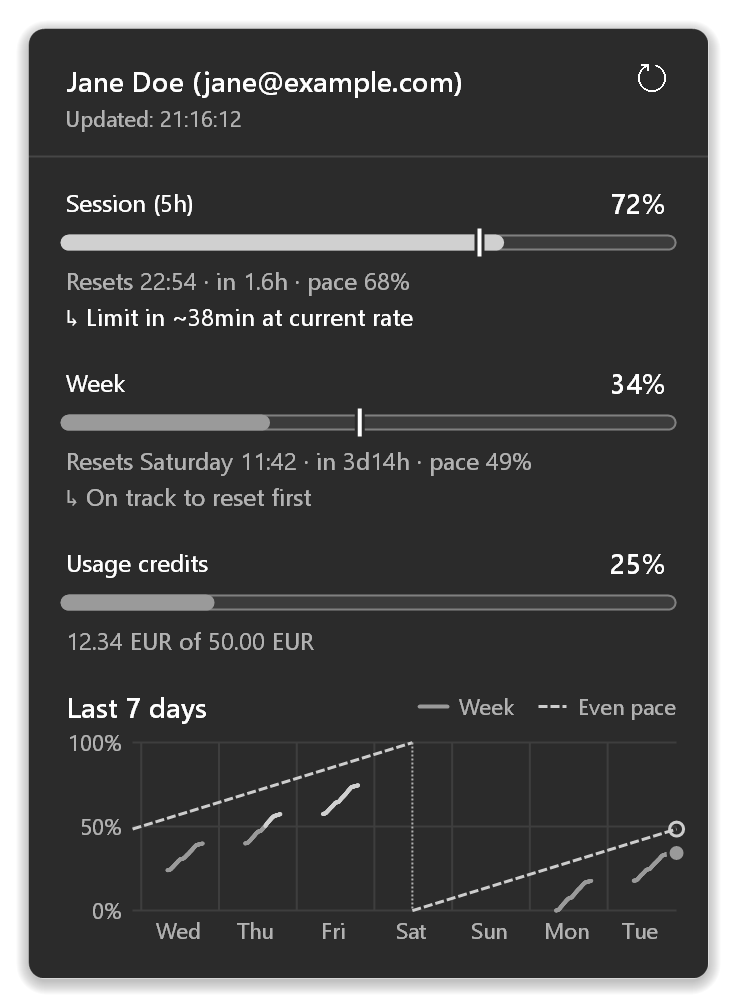
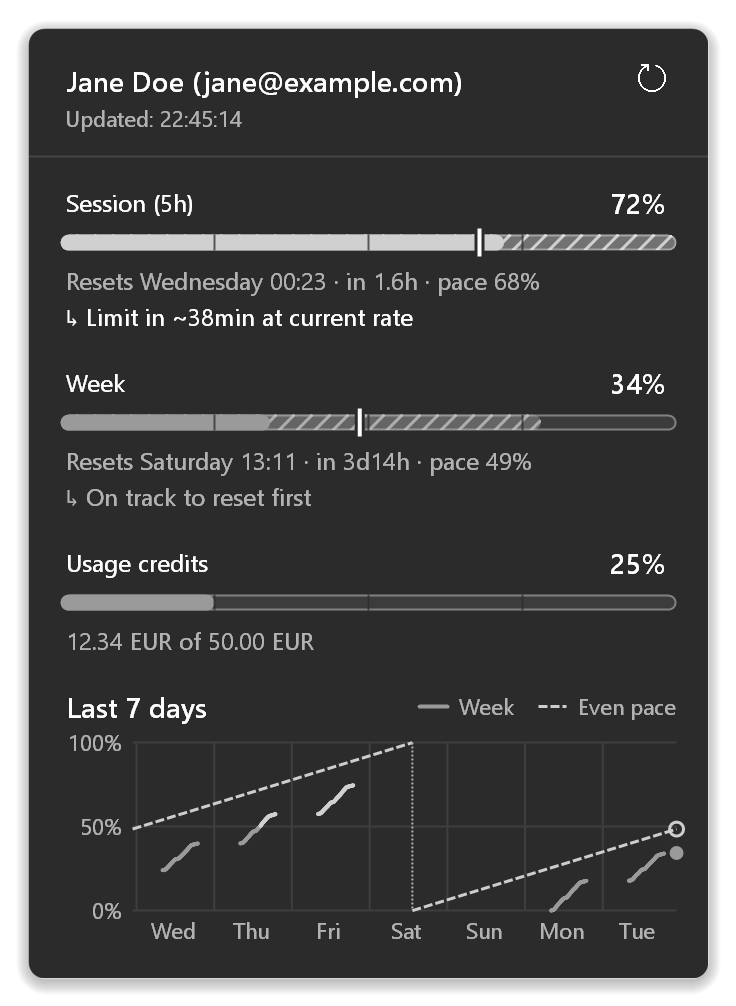
Show projected usage and 25/50/75% ticks on flyout bars

diff --git a/AIQuota/UsageFlyout.cs b/AIQuota/UsageFlyout.cs
@@ -454,7 +454,8 @@ internal sealed class UsageFlyout : Form
             : null;
         y = DrawTitleRow(g, Strings.FlyoutSessionTitle, $"{snapshot.SessionPercent}%", left, y, width);
         DrawBar(g, new RectangleF(left, y, width, S(8f)), snapshot.SessionPercent, _state.SessionNotStarted,
-            paceFraction: _state.ShowPaceMarker ? sessionPace : null);
+            paceFraction: _state.ShowPaceMarker ? sessionPace : null,
+            projectedPercent: _state.SessionForecast.ProjectedPercent);
         y += S(8f) + S(6f);
         var sessionDetail = _state.SessionNotStarted || snapshot.SessionResetsAt is not { } sessionReset
             ? Strings.FlyoutSessionNotStarted
@@ -469,7 +470,8 @@ internal sealed class UsageFlyout : Form
         double? pace = snapshot.WeeklyResetsAt is { } weekReset ? UsageWindows.WeeklyPaceFraction(weekReset, now) : null;
         y = DrawTitleRow(g, Strings.FlyoutWeekTitle, $"{snapshot.WeeklyPercent}%", left, y, width);
         DrawBar(g, new RectangleF(left, y, width, S(8f)), snapshot.WeeklyPercent, outlineOnly: false,
-            paceFraction: _state.ShowPaceMarker ? pace : null);
+            paceFraction: _state.ShowPaceMarker ? pace : null,
+            projectedPercent: _state.WeeklyForecast.ProjectedPercent);
         y += S(8f) + S(6f);
         if (snapshot.WeeklyResetsAt is { } weeklyReset)
         {
@@ -527,8 +529,10 @@ internal sealed class UsageFlyout : Form
     /// <summary>A large usage bar: the same track/fill/colour rules as the tray icon's (an
     /// outline-only track before a session starts; in the greyscale palette an outlined track
     /// and a notch above 80%), plus - for the session and the week - the pace marker as a
-    /// tick that sticks out a little above and below the bar.</summary>
-    private void DrawBar(Graphics? g, RectangleF rect, int percent, bool outlineOnly, double? paceFraction)
+    /// tick that sticks out a little above and below the bar, and the forecast's <paramref
+    /// name="projectedPercent"/> as a dimmed, hatched extension of the fill (see <see
+    /// cref="DrawProjection"/>).</summary>
+    private void DrawBar(Graphics? g, RectangleF rect, int percent, bool outlineOnly, double? paceFraction, double? projectedPercent = null)
     {
         if (g is null)
             return;
@@ -558,6 +562,9 @@ internal sealed class UsageFlyout : Form
             }
         }
 
+        if (projectedPercent is { } projected && projected > clamped)
+            DrawProjection(g, rect, radius, projected);
+
         if (clamped > 0)
         {
             var fillWidth = Math.Max(rect.Width * clamped / 100f, rect.Height);
@@ -577,6 +584,8 @@ internal sealed class UsageFlyout : Form
             }
         }
 
+        DrawScaleTicks(g, rect, outlineOnly);
+
         if (paceFraction is { } pace)
         {
             var x = rect.X + rect.Width * (float)Math.Clamp(pace, 0.0, 1.0);
@@ -589,6 +598,54 @@ internal sealed class UsageFlyout : Form
             g.FillRectangle(outlineBrush, x - core / 2f - outline, top - outline, core + 2 * outline, height + 2 * outline);
             g.FillRectangle(coreBrush, x - core / 2f, top, core, height);
         }
+    }
+
+    /// <summary>Scale ticks at 25%, 50% and 75%: thin, pixel-aligned gaps across the bar in
+    /// the flyout's background colour, so they read the same over the fill, the projection
+    /// and the empty track. Thinner and fainter than the pace marker and the greyscale
+    /// palette's notch, which they mustn't be confused with. On an outline-only bar (session
+    /// not started) there's nothing to cut a gap into, so they're drawn in the outline's
+    /// colour instead.</summary>
+    private void DrawScaleTicks(Graphics g, RectangleF rect, bool outlineOnly)
+    {
+        var color = outlineOnly
+            ? (_usage.TrackOutline is null ? _palette.Track : _usage.NotStarted)
+            : Color.FromArgb(190, _palette.Background);
+        var width = Math.Max(1f, MathF.Round(S(1f)));
+
+        using var brush = new SolidBrush(color);
+        foreach (var fraction in new[] { 0.25f, 0.5f, 0.75f })
+        {
+            var x = MathF.Round(rect.X + rect.Width * fraction - width / 2f);
+            g.FillRectangle(brush, x, rect.Y, width, rect.Height);
+        }
+    }
+
+    /// <summary>The usage the window would reach by its reset at the current rate: drawn from
+    /// the bar's start (the real fill covers the first part) to <paramref name="projected"/>,
+    /// in the colour of the level it would reach - dimmed, with diagonal stripes, so it reads
+    /// as "not yet used" and stays apart from the fill in the greyscale palette too.</summary>
+    private void DrawProjection(Graphics g, RectangleF rect, float radius, double projected)
+    {
+        var level = Math.Clamp(projected, 0, 100);
+        var width = Math.Min(Math.Max(rect.Width * (float)(level / 100), rect.Height), rect.Width);
+        var projectionRect = new RectangleF(rect.X, rect.Y, width, rect.Height);
+        var color = _usage.ForPercent((int)Math.Ceiling(level));
+
+        using var path = RoundedRect(projectionRect, radius);
+        var previousClip = g.Clip;
+        g.SetClip(path, CombineMode.Intersect);
+
+        using (var dim = new SolidBrush(Color.FromArgb(70, color)))
+            g.FillPath(dim, path);
+
+        // Wide spacing, so the stripes stand out clearly from the solid fill next to them.
+        var spacing = S(9f);
+        using var stripe = new Pen(Color.FromArgb(170, color), S(1.5f));
+        for (var x = projectionRect.X - rect.Height; x < projectionRect.Right; x += spacing)
+            g.DrawLine(stripe, x, rect.Bottom, x + rect.Height, rect.Y);
+
+        g.Clip = previousClip;
     }
 
     private void DrawLegend(Graphics? g, UsageSnapshot snapshot, float right, float centerY)

diff --git a/AIQuota/History/BurnRateForecaster.cs b/AIQuota/History/BurnRateForecaster.cs
@@ -15,7 +15,10 @@ public enum ForecastKind
     Limit,
 }
 
-public readonly record struct UsageForecast(ForecastKind Kind, TimeSpan TimeToLimit = default)
+/// <param name="ProjectedPercent">Usage the window would reach by its reset at the current
+/// rate, capped at 100 - shown as the hatched extension of the flyout's bars. Null when
+/// <see cref="Kind"/> is <see cref="ForecastKind.None"/>.</param>
+public readonly record struct UsageForecast(ForecastKind Kind, TimeSpan TimeToLimit = default, double? ProjectedPercent = null)
 {
     public static UsageForecast None => new(ForecastKind.None);
 
@@ -101,11 +104,15 @@ public static class BurnRateForecaster
         // Compare in minutes before building a TimeSpan: a near-flat fit can yield a tiny positive
         // slope (e.g. 1e-15 from rounding), whose minutes-to-limit overflow TimeSpan.
         var minutesToLimit = (100 - latest.Percent) / ratePerMinute;
-        if (minutesToLimit >= (resetsAt - latest.Time).TotalMinutes)
-            return new UsageForecast(ForecastKind.ResetFirst);
+        var minutesToReset = (resetsAt - latest.Time).TotalMinutes;
+        if (minutesToLimit >= minutesToReset)
+        {
+            var projected = Math.Min(latest.Percent + ratePerMinute * minutesToReset, 100);
+            return new UsageForecast(ForecastKind.ResetFirst, ProjectedPercent: projected);
+        }
 
         var timeToLimit = latest.Time + TimeSpan.FromMinutes(minutesToLimit) - now;
-        return new UsageForecast(ForecastKind.Limit, timeToLimit < TimeSpan.FromMinutes(1) ? TimeSpan.FromMinutes(1) : timeToLimit);
+        return new UsageForecast(ForecastKind.Limit, timeToLimit < TimeSpan.FromMinutes(1) ? TimeSpan.FromMinutes(1) : timeToLimit, ProjectedPercent: 100);
     }
 
     /// <summary>Least-squares slope of percent over time, in percentage points per minute.

diff --git a/tools/Screenshots/Program.cs b/tools/Screenshots/Program.cs
@@ -249,7 +249,7 @@ double WeeklyPacePercent() => (1 - (weeklyReset - now) / TimeSpan.FromDays(7)) *
     {
         var state = Activator.CreateInstance(stateType,
             true, Account, Strings.StatusUpdated(snapshot.FetchedAt), false, snapshot, 25, false, true,
-            new UsageForecast(ForecastKind.Limit, TimeSpan.FromMinutes(38)), new UsageForecast(ForecastKind.ResetFirst),
+            new UsageForecast(ForecastKind.Limit, TimeSpan.FromMinutes(38), 100), new UsageForecast(ForecastKind.ResetFirst, ProjectedPercent: 78),
             (IReadOnlyList<UsageHistoryRecord>)history, greyscale)!;
         var getter = Delegate.CreateDelegate(typeof(Func<>).MakeGenericType(stateType), new Holder(state),
             typeof(Holder).GetMethod(nameof(Holder.Get))!.MakeGenericMethod(stateType));

diff --git a/README.md b/README.md
@@ -45,12 +45,15 @@ Left-click the icon for a flyout next to the taskbar, like the Windows volume an
 flyouts. It shows:
 
 - your account, when the data was last updated, and a refresh button
-- the session, week and (when your plan has them) credit usage as large bars, with the
-  reset time as both clock time and countdown (`Resets 14:30 · in 1.6h`)
+- the session, week and (when your plan has them) credit usage as large bars with scale
+  ticks at 25%, 50% and 75%, and the reset time as both clock time and countdown
+  (`Resets 14:30 · in 1.6h`)
 - a [pace marker](#weekly-pace-marker) on the week bar, and one on the session bar for an
   even spread over the 5 hours (`Resets 14:30 · in 1.6h · pace 68%`; not shown before a
   session starts)
-- the [burn-rate forecast](#usage-history-and-forecast) under each bar
+- the [burn-rate forecast](#usage-history-and-forecast) under the session and week bars,
+  and as a dimmed, hatched extension of each bar up to the usage you'd reach by the reset
+  at your current rate
 - a chart of your weekly usage over the **last 7 days**
 
 <p>
@@ -187,6 +190,9 @@ when you'll hit a limit if you keep going at your current rate:
   either `↳ Limit in ~40min at current rate` or `↳ On track to reset first`. There's no
   line when there isn't enough recent data yet, when your usage isn't rising, or before a
   session has started.
+- In the [flyout](#tray-flyout), the same line sits under the session and week bars, and
+  each bar gets a dimmed, hatched extension up to the usage you'd reach by the reset (up to
+  100% when the limit comes first), coloured for the level it would reach.
 - The tooltip adds ` · limit ~40min` to the session or week line when the limit is forecast
   to come before the reset. If the tooltip would get too long, it leaves out the pace value
   first and then the forecast.
